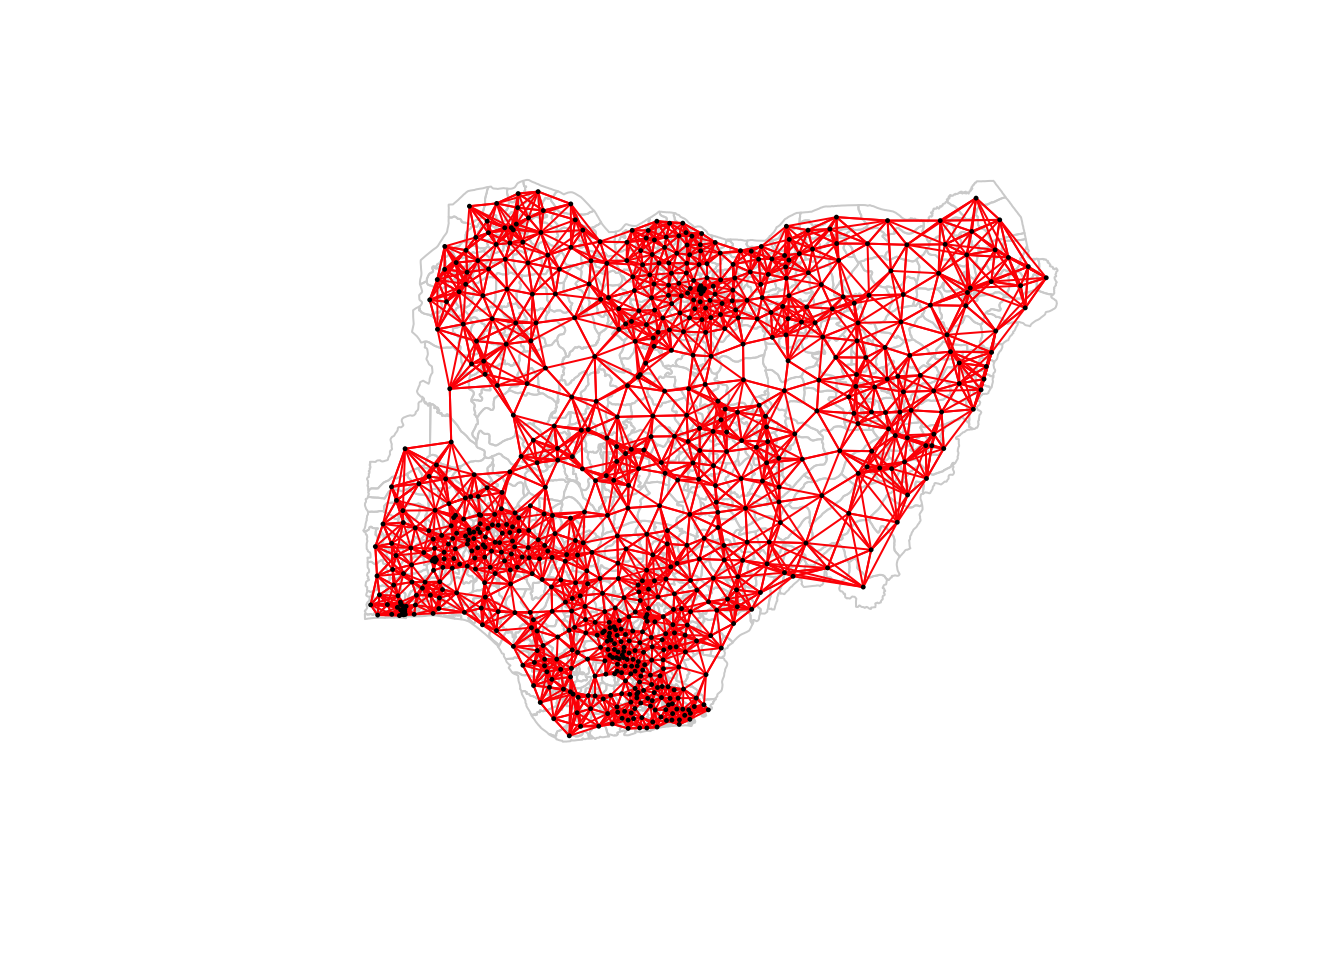
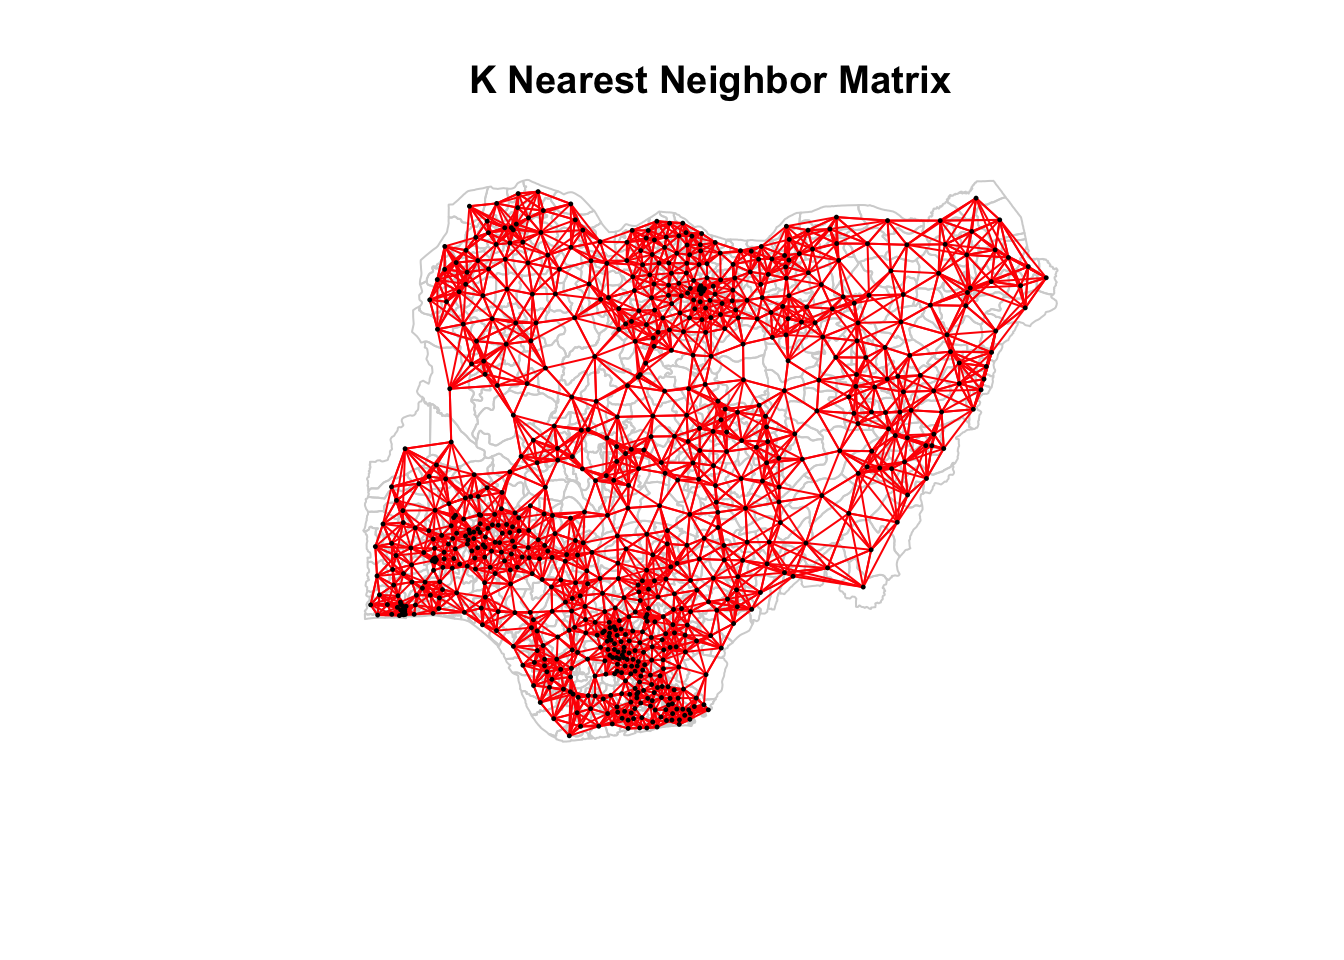
Commit spatial correlogram

Changed region(s): [[0.3438, 0.0625, 0.7188, 0.125]]

diff --git a/_site/Take-home_Ex/Take-home_Ex1/Take-home_Ex1.html b/_site/Take-home_Ex/Take-home_Ex1/Take-home_Ex1.html
@@ -229,7 +229,10 @@ code span.wa { color: #60a0b0; font-weight: bold; font-style: italic; } /* Warni
   <li><a href="#global-spatial-autocorrelation" id="toc-global-spatial-autocorrelation" class="nav-link" data-scroll-target="#global-spatial-autocorrelation">Global Spatial Autocorrelation</a>
   <ul class="collapse">
   <li><a href="#computing-spatial-weights" id="toc-computing-spatial-weights" class="nav-link" data-scroll-target="#computing-spatial-weights">Computing Spatial Weights</a></li>
+  <li><a href="#global-spatial-autocorrelation-morans-i" id="toc-global-spatial-autocorrelation-morans-i" class="nav-link" data-scroll-target="#global-spatial-autocorrelation-morans-i">Global Spatial Autocorrelation: Moran’s I</a></li>
+  <li><a href="#global-spatial-autocorrelation-gearys-c" id="toc-global-spatial-autocorrelation-gearys-c" class="nav-link" data-scroll-target="#global-spatial-autocorrelation-gearys-c">Global Spatial Autocorrelation: Geary’s C</a></li>
   </ul></li>
+  <li><a href="#spatial-correlogram-with-morans-i" id="toc-spatial-correlogram-with-morans-i" class="nav-link" data-scroll-target="#spatial-correlogram-with-morans-i">Spatial Correlogram with Moran’s I</a></li>
   </ul>
 </nav>
     </div>
@@ -671,7 +674,7 @@ code span.wa { color: #60a0b0; font-weight: bold; font-style: italic; } /* Warni
 <span id="cb30-5"><a href="#cb30-5" aria-hidden="true" tabindex="-1"></a>wp_k8 <span class="ot">&lt;-</span> <span class="fu">knn2nb</span>(<span class="fu">knearneigh</span>(coords, <span class="at">k =</span> <span class="dv">8</span>))</span></code><button title="Copy to Clipboard" class="code-copy-button"><i class="bi"></i></button></pre></div>
 </details>
 </div>
-<p>We can display the content of <code>wp_k8</code> matrix using <code>str()</code>. Each feature has 8 neighbors.</p>
+<p>Displaying the content of <code>wp_k8</code> matrix using <code>str()</code>. Each feature has 8 neighbors.</p>
 <div class="cell">
 <details>
 <summary>Show code</summary>
@@ -791,17 +794,257 @@ code span.wa { color: #60a0b0; font-weight: bold; font-style: italic; } /* Warni
 <div class="cell">
 <details>
 <summary>Show code</summary>
-<div class="sourceCode cell-code" id="cb33"><pre class="sourceCode r code-with-copy"><code class="sourceCode r"><span id="cb33-1"><a href="#cb33-1" aria-hidden="true" tabindex="-1"></a><span class="fu">plot</span>(nga_wp<span class="sc">$</span>geometry, <span class="at">border =</span> <span class="st">"lightgrey"</span>)</span>
+<div class="sourceCode cell-code" id="cb33"><pre class="sourceCode r code-with-copy"><code class="sourceCode r"><span id="cb33-1"><a href="#cb33-1" aria-hidden="true" tabindex="-1"></a><span class="fu">plot</span>(nga_wp<span class="sc">$</span>geometry, <span class="at">border =</span> <span class="st">"lightgrey"</span>, <span class="at">main =</span> <span class="st">"K Nearest Neighbor Matrix"</span>)</span>
 <span id="cb33-2"><a href="#cb33-2" aria-hidden="true" tabindex="-1"></a><span class="fu">plot</span>(wp_k8, coords, <span class="at">pch =</span> <span class="dv">19</span>, <span class="at">cex =</span> <span class="fl">0.2</span>, <span class="at">add =</span> <span class="cn">TRUE</span>, <span class="at">col =</span> <span class="st">"red"</span>)</span></code><button title="Copy to Clipboard" class="code-copy-button"><i class="bi"></i></button></pre></div>
 </details>
 <div class="cell-output-display">
 <p><img src="Take-home_Ex1_files/figure-html/unnamed-chunk-29-1.png" class="img-fluid" width="672"></p>
 </div>
 </div>
+</section>
+<section id="row-standardized-weight-matrix" class="level4">
+<h4 class="anchored" data-anchor-id="row-standardized-weight-matrix">Row standardized weight matrix</h4>
+<p>We will compute a row standardized weight matrix based on <code>wp_k8</code> by using <code>nb2listw()</code> from <strong>spdep</strong> package.</p>
+<div class="cell">
+<details>
+<summary>Show code</summary>
+<div class="sourceCode cell-code" id="cb34"><pre class="sourceCode r code-with-copy"><code class="sourceCode r"><span id="cb34-1"><a href="#cb34-1" aria-hidden="true" tabindex="-1"></a>wp_rsw <span class="ot">&lt;-</span> <span class="fu">nb2listw</span>(wp_k8, <span class="at">style =</span> <span class="st">"W"</span>, <span class="at">zero.policy =</span> <span class="cn">TRUE</span>)</span>
+<span id="cb34-2"><a href="#cb34-2" aria-hidden="true" tabindex="-1"></a>wp_rsw</span></code><button title="Copy to Clipboard" class="code-copy-button"><i class="bi"></i></button></pre></div>
+</details>
+<div class="cell-output cell-output-stdout">
+<pre><code>Characteristics of weights list object:
+Neighbour list object:
+Number of regions: 774 
+Number of nonzero links: 6192 
+Percentage nonzero weights: 1.033592 
+Average number of links: 8 
+Non-symmetric neighbours list
 
-
+Weights style: W 
+Weights constants summary:
+    n     nn  S0       S1       S2
+W 774 599076 774 174.2812 3155.312</code></pre>
+</div>
+</div>
 </section>
 </section>
+<section id="global-spatial-autocorrelation-morans-i" class="level3">
+<h3 class="anchored" data-anchor-id="global-spatial-autocorrelation-morans-i">Global Spatial Autocorrelation: Moran’s I</h3>
+<section id="morans-i-test" class="level4">
+<h4 class="anchored" data-anchor-id="morans-i-test">Moran’s I test</h4>
+<p>To perform the Moran’s I test, we will use <code>moran.test()</code> from <strong>spdep</strong> package.</p>
+<div class="cell">
+<details>
+<summary>Show code</summary>
+<div class="sourceCode cell-code" id="cb36"><pre class="sourceCode r code-with-copy"><code class="sourceCode r"><span id="cb36-1"><a href="#cb36-1" aria-hidden="true" tabindex="-1"></a><span class="fu">moran.test</span>(nga_wp<span class="sc">$</span><span class="st">`</span><span class="at">wpt non-functional</span><span class="st">`</span>, <span class="at">listw =</span> wp_rsw, <span class="at">zero.policy =</span> <span class="cn">TRUE</span>, <span class="at">na.action =</span> na.omit)</span></code><button title="Copy to Clipboard" class="code-copy-button"><i class="bi"></i></button></pre></div>
+</details>
+<div class="cell-output cell-output-stdout">
+<pre><code>
+    Moran I test under randomisation
+
+data:  nga_wp$`wpt non-functional`  
+weights: wp_rsw    
+
+Moran I statistic standard deviate = 22.72, p-value &lt; 2.2e-16
+alternative hypothesis: greater
+sample estimates:
+Moran I statistic       Expectation          Variance 
+     0.3830962455     -0.0012936611      0.0002862476 </code></pre>
+</div>
+</div>
+<p>Because the p-value of the test is less than 0.05, we reject the null hypothesis that the non-functional water points are spatially random at 95% confident interval. As the Moran statistic is 0.383, greater than 0, we can say that the non-functional water point observations are clustered.</p>
+</section>
+<section id="monte-carlo-morans-i" class="level4">
+<h4 class="anchored" data-anchor-id="monte-carlo-morans-i">Monte Carlo Moran’s I</h4>
+<p>To compute 1,000 simulations of Monte Carlo Moran’s I, we will use <code>moran.mc()</code> from <strong>spdep</strong> package.</p>
+<div class="cell">
+<details>
+<summary>Show code</summary>
+<div class="sourceCode cell-code" id="cb38"><pre class="sourceCode r code-with-copy"><code class="sourceCode r"><span id="cb38-1"><a href="#cb38-1" aria-hidden="true" tabindex="-1"></a><span class="fu">set.seed</span>(<span class="dv">1234</span>)</span>
+<span id="cb38-2"><a href="#cb38-2" aria-hidden="true" tabindex="-1"></a>mc_moran <span class="ot">=</span> <span class="fu">moran.mc</span>(nga_wp<span class="sc">$</span><span class="st">`</span><span class="at">wpt non-functional</span><span class="st">`</span>,</span>
+<span id="cb38-3"><a href="#cb38-3" aria-hidden="true" tabindex="-1"></a>                    <span class="at">listw =</span> wp_rsw,</span>
+<span id="cb38-4"><a href="#cb38-4" aria-hidden="true" tabindex="-1"></a>                    <span class="at">nsim =</span> <span class="dv">999</span>,</span>
+<span id="cb38-5"><a href="#cb38-5" aria-hidden="true" tabindex="-1"></a>                    <span class="at">zero.policy =</span> <span class="cn">TRUE</span>,</span>
+<span id="cb38-6"><a href="#cb38-6" aria-hidden="true" tabindex="-1"></a>                    <span class="at">na.action =</span> na.omit)</span>
+<span id="cb38-7"><a href="#cb38-7" aria-hidden="true" tabindex="-1"></a>mc_moran</span></code><button title="Copy to Clipboard" class="code-copy-button"><i class="bi"></i></button></pre></div>
+</details>
+<div class="cell-output cell-output-stdout">
+<pre><code>
+    Monte-Carlo simulation of Moran I
+
+data:  nga_wp$`wpt non-functional` 
+weights: wp_rsw  
+number of simulations + 1: 1000 
+
+statistic = 0.3831, observed rank = 1000, p-value = 0.001
+alternative hypothesis: greater</code></pre>
+</div>
+</div>
+<p>As p-value is 0.001 and less than 0.05, we reject the null hypothesis of spatial randomness among the non-functional water point observations. The statistic of the Moran’s I simulations is 0.3831, greater than 0, corroborating the test result that similar non-functional water point observations are clustered.</p>
+</section>
+<section id="visualzing-monte-carlo-morans-i" class="level4">
+<h4 class="anchored" data-anchor-id="visualzing-monte-carlo-morans-i">Visualzing Monte Carlo Moran’s I</h4>
+<div class="cell">
+<details>
+<summary>Show code</summary>
+<div class="sourceCode cell-code" id="cb40"><pre class="sourceCode r code-with-copy"><code class="sourceCode r"><span id="cb40-1"><a href="#cb40-1" aria-hidden="true" tabindex="-1"></a><span class="fu">summary</span>(mc_moran<span class="sc">$</span>res)</span></code><button title="Copy to Clipboard" class="code-copy-button"><i class="bi"></i></button></pre></div>
+</details>
+<div class="cell-output cell-output-stdout">
+<pre><code>      Min.    1st Qu.     Median       Mean    3rd Qu.       Max. 
+-0.0577464 -0.0127344 -0.0011002 -0.0002353  0.0109820  0.3830962 </code></pre>
+</div>
+</div>
+<div class="cell">
+<details>
+<summary>Show code</summary>
+<div class="sourceCode cell-code" id="cb42"><pre class="sourceCode r code-with-copy"><code class="sourceCode r"><span id="cb42-1"><a href="#cb42-1" aria-hidden="true" tabindex="-1"></a><span class="fu">hist</span>(mc_moran<span class="sc">$</span>res,</span>
+<span id="cb42-2"><a href="#cb42-2" aria-hidden="true" tabindex="-1"></a>     <span class="at">freq =</span> <span class="cn">TRUE</span>,</span>
+<span id="cb42-3"><a href="#cb42-3" aria-hidden="true" tabindex="-1"></a>     <span class="at">breaks =</span> <span class="dv">20</span>,</span>
+<span id="cb42-4"><a href="#cb42-4" aria-hidden="true" tabindex="-1"></a>     <span class="at">xlab =</span> <span class="st">"Simulated Moran's I"</span>,</span>
+<span id="cb42-5"><a href="#cb42-5" aria-hidden="true" tabindex="-1"></a>     <span class="at">main =</span> <span class="st">"Histogram of Moran's I Simulation"</span>)</span>
+<span id="cb42-6"><a href="#cb42-6" aria-hidden="true" tabindex="-1"></a><span class="fu">abline</span>(<span class="at">v =</span> <span class="dv">0</span>, <span class="at">col =</span> <span class="st">"red"</span>)</span></code><button title="Copy to Clipboard" class="code-copy-button"><i class="bi"></i></button></pre></div>
+</details>
+<div class="cell-output-display">
+<p><img src="Take-home_Ex1_files/figure-html/unnamed-chunk-34-1.png" class="img-fluid" width="672"></p>
+</div>
+</div>
+<p>We can see that the min of the Moran’s I value is less than 0, while the max value is 0.38. The Moran’s I data is approaching 1, inferring similar values are clustered. In layman terms, government areas with similar number of non-functional water points tend to be closer together and form some clusters.</p>
+</section>
+</section>
+<section id="global-spatial-autocorrelation-gearys-c" class="level3">
+<h3 class="anchored" data-anchor-id="global-spatial-autocorrelation-gearys-c">Global Spatial Autocorrelation: Geary’s C</h3>
+<p>The following section will focus on Geary’s C test and Geary’s C Monte Carlo simulation using the functions from <strong>spdep</strong> package.</p>
+<section id="gearys-c-test" class="level4">
+<h4 class="anchored" data-anchor-id="gearys-c-test">Geary’s C Test</h4>
+<div class="cell">
+<details>
+<summary>Show code</summary>
+<div class="sourceCode cell-code" id="cb43"><pre class="sourceCode r code-with-copy"><code class="sourceCode r"><span id="cb43-1"><a href="#cb43-1" aria-hidden="true" tabindex="-1"></a><span class="fu">geary.test</span>(nga_wp<span class="sc">$</span><span class="st">`</span><span class="at">wpt non-functional</span><span class="st">`</span>, <span class="at">listw =</span> wp_rsw)</span></code><button title="Copy to Clipboard" class="code-copy-button"><i class="bi"></i></button></pre></div>
+</details>
+<div class="cell-output cell-output-stdout">
+<pre><code>
+    Geary C test under randomisation
+
+data:  nga_wp$`wpt non-functional` 
+weights: wp_rsw 
+
+Geary C statistic standard deviate = 19.419, p-value &lt; 2.2e-16
+alternative hypothesis: Expectation greater than statistic
+sample estimates:
+Geary C statistic       Expectation          Variance 
+     0.6045301723      1.0000000000      0.0004147472 </code></pre>
+</div>
+</div>
+<p>Because p-value is 0.001 and less than 0.05, we reject the null hypothesis of spatial randomness among the non-functional water point observations with 95% confident interval. The statistic of the Geary’s C simulations is 0.605, less than 1, we can say that the data tend to cluster among similar observations.</p>
+</section>
+<section id="monte-carlo-gearys-c" class="level4">
+<h4 class="anchored" data-anchor-id="monte-carlo-gearys-c">Monte Carlo Geary’s C</h4>
+<p>We will compute 1000 simulations of Geary’s C using <code>geary.mc()</code>.</p>
+<div class="cell">
+<details>
+<summary>Show code</summary>
+<div class="sourceCode cell-code" id="cb45"><pre class="sourceCode r code-with-copy"><code class="sourceCode r"><span id="cb45-1"><a href="#cb45-1" aria-hidden="true" tabindex="-1"></a><span class="fu">set.seed</span>(<span class="dv">1234</span>)</span>
+<span id="cb45-2"><a href="#cb45-2" aria-hidden="true" tabindex="-1"></a>mc_geary <span class="ot">=</span> <span class="fu">geary.mc</span>(nga_wp<span class="sc">$</span><span class="st">`</span><span class="at">wpt non-functional</span><span class="st">`</span>, <span class="at">listw =</span> wp_rsw, <span class="at">nsim =</span> <span class="dv">999</span>)</span>
+<span id="cb45-3"><a href="#cb45-3" aria-hidden="true" tabindex="-1"></a>mc_geary</span></code><button title="Copy to Clipboard" class="code-copy-button"><i class="bi"></i></button></pre></div>
+</details>
+<div class="cell-output cell-output-stdout">
+<pre><code>
+    Monte-Carlo simulation of Geary C
+
+data:  nga_wp$`wpt non-functional` 
+weights: wp_rsw 
+number of simulations + 1: 1000 
+
+statistic = 0.60453, observed rank = 1, p-value = 0.001
+alternative hypothesis: greater</code></pre>
+</div>
+</div>
+<p>The result of the simulation corroborates the previous Geary’s C test with p-value less than 0.05 and Geary’s C statistic less than 1.</p>
+</section>
+<section id="visualizing-monte-carlo-gearys-c" class="level4">
+<h4 class="anchored" data-anchor-id="visualizing-monte-carlo-gearys-c">Visualizing Monte Carlo Geary’s C</h4>
+<div class="cell">
+<details>
+<summary>Show code</summary>
+<div class="sourceCode cell-code" id="cb47"><pre class="sourceCode r code-with-copy"><code class="sourceCode r"><span id="cb47-1"><a href="#cb47-1" aria-hidden="true" tabindex="-1"></a><span class="fu">summary</span>(mc_geary<span class="sc">$</span>res)</span></code><button title="Copy to Clipboard" class="code-copy-button"><i class="bi"></i></button></pre></div>
+</details>
+<div class="cell-output cell-output-stdout">
+<pre><code>   Min. 1st Qu.  Median    Mean 3rd Qu.    Max. 
+ 0.6045  0.9857  0.9995  0.9987  1.0128  1.0690 </code></pre>
+</div>
+</div>
+<div class="cell">
+<details>
+<summary>Show code</summary>
+<div class="sourceCode cell-code" id="cb49"><pre class="sourceCode r code-with-copy"><code class="sourceCode r"><span id="cb49-1"><a href="#cb49-1" aria-hidden="true" tabindex="-1"></a><span class="fu">hist</span>(mc_geary<span class="sc">$</span>res,</span>
+<span id="cb49-2"><a href="#cb49-2" aria-hidden="true" tabindex="-1"></a>     <span class="at">freq =</span> <span class="cn">TRUE</span>,</span>
+<span id="cb49-3"><a href="#cb49-3" aria-hidden="true" tabindex="-1"></a>     <span class="at">breaks =</span> <span class="dv">20</span>,</span>
+<span id="cb49-4"><a href="#cb49-4" aria-hidden="true" tabindex="-1"></a>     <span class="at">main =</span> <span class="st">"Histogram of Geary's C Simulation"</span>,</span>
+<span id="cb49-5"><a href="#cb49-5" aria-hidden="true" tabindex="-1"></a>     <span class="at">xlab =</span> <span class="st">"Simulated Geary's C"</span>)</span>
+<span id="cb49-6"><a href="#cb49-6" aria-hidden="true" tabindex="-1"></a><span class="fu">abline</span>(<span class="at">v =</span> <span class="dv">1</span>, <span class="at">col =</span> <span class="st">"red"</span>)</span></code><button title="Copy to Clipboard" class="code-copy-button"><i class="bi"></i></button></pre></div>
+</details>
+<div class="cell-output-display">
+<p><img src="Take-home_Ex1_files/figure-html/unnamed-chunk-38-1.png" class="img-fluid" width="672"></p>
+</div>
+</div>
+<p>We can see that the min Geary’s C is less than 1, while the max is greater than 1. The Geary’s C data is approaching 0, meaning similar values are clustered. This result again is similar to Moran’s I. We have areas with similar number of non-functional water points clustering together.</p>
+</section>
+</section>
+</section>
+<section id="spatial-correlogram-with-morans-i" class="level2">
+<h2 class="anchored" data-anchor-id="spatial-correlogram-with-morans-i">Spatial Correlogram with Moran’s I</h2>
+<p>We will use <code>sp.correlogram()</code> from spdep package to compute a 6-lag spatial correlogram of non-functional water points.</p>
+<div class="cell">
+<details>
+<summary>Show code</summary>
+<div class="sourceCode cell-code" id="cb50"><pre class="sourceCode r code-with-copy"><code class="sourceCode r"><span id="cb50-1"><a href="#cb50-1" aria-hidden="true" tabindex="-1"></a>MI_corr <span class="ot">&lt;-</span> <span class="fu">sp.correlogram</span>(wp_k8, </span>
+<span id="cb50-2"><a href="#cb50-2" aria-hidden="true" tabindex="-1"></a>                          nga_wp<span class="sc">$</span><span class="st">`</span><span class="at">wpt non-functional</span><span class="st">`</span>, </span>
+<span id="cb50-3"><a href="#cb50-3" aria-hidden="true" tabindex="-1"></a>                          <span class="at">order=</span><span class="dv">10</span>, </span>
+<span id="cb50-4"><a href="#cb50-4" aria-hidden="true" tabindex="-1"></a>                          <span class="at">method=</span><span class="st">"I"</span>, </span>
+<span id="cb50-5"><a href="#cb50-5" aria-hidden="true" tabindex="-1"></a>                          <span class="at">style=</span><span class="st">"W"</span>)</span>
+<span id="cb50-6"><a href="#cb50-6" aria-hidden="true" tabindex="-1"></a><span class="fu">plot</span>(MI_corr, <span class="at">main =</span> <span class="st">"Moran's I Correlogram of Non-functional Water Points"</span>)</span></code><button title="Copy to Clipboard" class="code-copy-button"><i class="bi"></i></button></pre></div>
+</details>
+<div class="cell-output-display">
+<p><img src="Take-home_Ex1_files/figure-html/unnamed-chunk-39-1.png" class="img-fluid" width="672"></p>
+</div>
+</div>
+<div class="cell">
+<details>
+<summary>Show code</summary>
+<div class="sourceCode cell-code" id="cb51"><pre class="sourceCode r code-with-copy"><code class="sourceCode r"><span id="cb51-1"><a href="#cb51-1" aria-hidden="true" tabindex="-1"></a><span class="fu">print</span>(MI_corr)</span></code><button title="Copy to Clipboard" class="code-copy-button"><i class="bi"></i></button></pre></div>
+</details>
+<div class="cell-output cell-output-stdout">
+<pre><code>Spatial correlogram for nga_wp$`wpt non-functional` 
+method: Moran's I
+            estimate expectation    variance standard deviate Pr(I) two sided
+1 (774)   3.8310e-01 -1.2937e-03  2.8625e-04          22.7196       &lt; 2.2e-16
+2 (774)   2.4978e-01 -1.2937e-03  1.4428e-04          20.9027       &lt; 2.2e-16
+3 (774)   1.7519e-01 -1.2937e-03  9.8557e-05          17.7769       &lt; 2.2e-16
+4 (774)   1.1512e-01 -1.2937e-03  7.3007e-05          13.6241       &lt; 2.2e-16
+5 (774)   7.3384e-02 -1.2937e-03  5.7171e-05           9.8765       &lt; 2.2e-16
+6 (774)   3.3259e-02 -1.2937e-03  4.7493e-05           5.0137       5.338e-07
+7 (774)   2.3599e-03 -1.2937e-03  4.1538e-05           0.5669       0.5708000
+8 (774)  -2.3438e-02 -1.2937e-03  3.7172e-05          -3.6322       0.0002811
+9 (774)  -5.8066e-02 -1.2937e-03  3.4217e-05          -9.7054       &lt; 2.2e-16
+10 (774) -9.0732e-02 -1.2937e-03  3.2640e-05         -15.6549       &lt; 2.2e-16
+            
+1 (774)  ***
+2 (774)  ***
+3 (774)  ***
+4 (774)  ***
+5 (774)  ***
+6 (774)  ***
+7 (774)     
+8 (774)  ***
+9 (774)  ***
+10 (774) ***
+---
+Signif. codes:  0 '***' 0.001 '**' 0.01 '*' 0.05 '.' 0.1 ' ' 1</code></pre>
+</div>
+</div>
+<p>The higher the lag value, the lower the estimation of Moran’s I value. From lag 8, the values start to be dispersed with Moran’s I estimation less than 0. Except for lag 7, we can reject the null hypothesis of spatial randomness for other lag values.</p>
+
+
 </section>
 
 </main> <!-- /main -->
